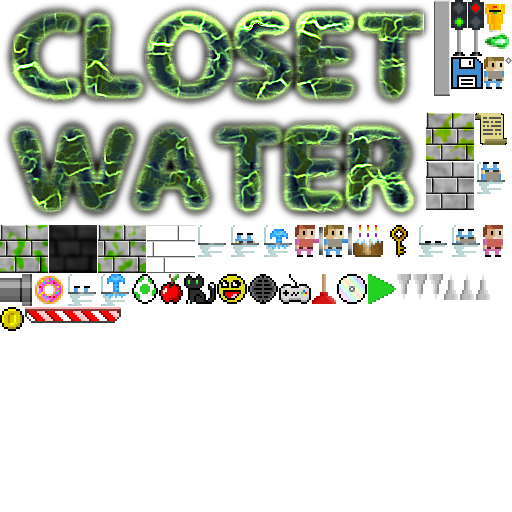
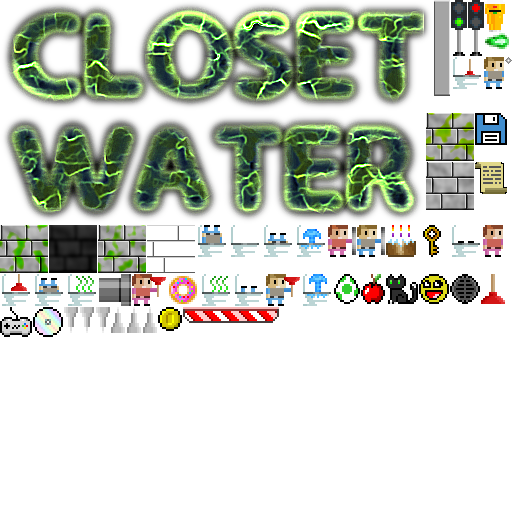
Implemented plunger.

diff --git a/src/entities/toilet.c b/src/entities/toilet.c
@@ -30,6 +30,8 @@ static void save(cJSON *root);
 static AtlasImage *idleTexture;
 static AtlasImage *eruptFrames[2];
 static AtlasImage *escapeFrames[5];
+static AtlasImage *stinkFrames[2];
+static AtlasImage *plungingFrames[2];
 
 void initToilet(Entity *e)
 {
@@ -47,12 +49,14 @@ void initToilet(Entity *e)
 		escapeFrames[i] = getAtlasImage(filename, 1);
 	}
 	
-	for (i = 0 ; i < 2 ; i++)
-	{
-		sprintf(filename, "gfx/entities/toiletErupt%d.png", i + 1);
-		
-		eruptFrames[i] = getAtlasImage(filename, 1);
-	}
+	eruptFrames[0] = getAtlasImage("gfx/entities/toiletErupt1.png", 1);
+	eruptFrames[1] = getAtlasImage("gfx/entities/toiletErupt2.png", 1);
+	
+	stinkFrames[0] = getAtlasImage("gfx/entities/toiletStink1.png", 1);
+	stinkFrames[1] = getAtlasImage("gfx/entities/toiletStink2.png", 1);
+	
+	plungingFrames[0] = getAtlasImage("gfx/entities/toiletPlunging1.png", 1);
+	plungingFrames[1] = getAtlasImage("gfx/entities/toiletPlunging2.png", 1);
 	
 	idleTexture = getAtlasImage("gfx/entities/toilet.png", 1);
 	
@@ -71,21 +75,6 @@ void initToilet(Entity *e)
 
 static void idle(void)
 {
-	int x;
-	Toilet *t;
-	
-	t = (Toilet*)self->data;
-	
-	if (t->requiresPlunger && --t->stinkTime <= 0)
-	{
-		x = self->x;
-		x += rand() % self->w;
-		
-		addToiletParticle(x, self->y + self->h / 2);
-		
-		t->stinkTime = 8 + rand() % 8;
-	}
-	
 	if (stage.time / 60 == 0)
 	{
 		self->atlasImage = eruptFrames[0];
@@ -93,6 +82,55 @@ static void idle(void)
 		self->tick = erupt;
 		
 		self->touch = NULL;
+	}
+}
+
+static void stink(void)
+{
+	Toilet *t;
+	
+	t = (Toilet*)self->data;
+	
+	t->animTimer++;
+	
+	if (t->animTimer % 30 == 0)
+	{
+		if (++t->frameNum > 1)
+		{
+			t->frameNum = 0;
+		}
+	}
+	
+	self->atlasImage = stinkFrames[t->frameNum];
+}
+
+static void plunging(void)
+{
+	Toilet *t;
+	
+	t = (Toilet*)self->data;
+	
+	t->animTimer++;
+	
+	if (t->animTimer % 16 == 0)
+	{
+		if (++t->frameNum > 1)
+		{
+			t->frameNum = 0;
+		}
+		
+		playSound(SND_PLUNGE, -1);
+	}
+	
+	self->atlasImage = plungingFrames[t->frameNum];
+	
+	if (--t->requiresPlunger <= 0)
+	{
+		self->tick = idle;
+		
+		self->atlasImage = idleTexture;
+		
+		self->touch = touch;
 	}
 }
 
@@ -106,7 +144,7 @@ static void erupt(void)
 	
 	if (t->animTimer % 30 == 0)
 	{
-		if (++t->frameNum >= 2)
+		if (++t->frameNum > 1)
 		{
 			t->frameNum = 0;
 		}
@@ -142,36 +180,69 @@ static void touch(Entity *other)
 {
 	Toilet *t;
 	
-	if (other != NULL && other->type == ET_PLAYER && self->tick == idle)
+	if (other != NULL)
 	{
 		t = (Toilet*)self->data;
 		
-		self->tick = escape;
-		
-		self->atlasImage = escapeFrames[0];
-		
-		t->animTimer = FPS;
-		
-		other->health = 0;
-		
-		/* just remove player */
-		other->die = NULL;
-		
-		stage.status = SS_COMPLETE;
-		
-		stage.nextStageTimer = FPS * 3;
-		
-		playSound(SND_FLUSH, CH_PLAYER);
+		if (!t->requiresPlunger && other->type == ET_PLAYER)
+		{
+			self->tick = escape;
+			
+			self->atlasImage = escapeFrames[0];
+			
+			t->animTimer = FPS;
+			
+			other->health = 0;
+			
+			/* just remove player */
+			other->die = NULL;
+			
+			stage.status = SS_COMPLETE;
+			
+			stage.nextStageTimer = FPS * 3;
+			
+			playSound(SND_FLUSH, CH_PLAYER);
+		}
+		else if (other->flags & EF_PLUNGING)
+		{
+			other->flags &= ~EF_PLUNGING;
+			
+			self->tick = plunging;
+			
+			self->touch = NULL;
+		}
 	}
 }
 
 static void load(cJSON *root)
 {
+	Toilet *t;
+	
+	t = (Toilet*)self->data;
+	
 	self->facing = strcmp(cJSON_GetObjectItem(root, "facing")->valuestring, "left") == 0 ? 0 : 1;
+	
+	if (cJSON_GetObjectItem(root, "requiresPlunger"))
+	{
+		t->requiresPlunger = FPS * 2;
+		
+		self->atlasImage = stinkFrames[0];
+		
+		self->tick = stink;
+	}
 }
 
 static void save(cJSON *root)
 {
+	Toilet *t;
+	
+	t = (Toilet*)self->data;
+	
 	cJSON_AddStringToObject(root, "type", self->typeName);
 	cJSON_AddStringToObject(root, "facing", self->facing == 0 ? "left" : "right");
+	
+	if (t->requiresPlunger)
+	{
+		cJSON_AddNumberToObject(root, "requiresPlunger", 1);
+	}
 }

diff --git a/src/entities/player.c b/src/entities/player.c
@@ -20,7 +20,9 @@ Foundation, Inc., 59 Temple Place - Suite 330, Boston, MA  02111-1307, USA.
 
 #include "player.h"
 
+static AtlasImage *normalTexture;
 static AtlasImage *shieldTexture;
+static AtlasImage *plungerTexture;
 
 static void recordCloneData(void);
 static void tick(void);
@@ -50,7 +52,11 @@ void initPlayer(Entity *e)
 	e->w = e->atlasImage->rect.w;
 	e->h = e->atlasImage->rect.h;
 	
+	normalTexture = e->atlasImage;
+	
 	shieldTexture = getAtlasImage("gfx/entities/guyShield.png", 1);
+	
+	plungerTexture = getAtlasImage("gfx/entities/guyPlunger.png", 1);
 }
 
 static void tick(void)
@@ -62,9 +68,15 @@ static void tick(void)
 	self->dx = 0;
 	p->action = 0;
 	
+	self->atlasImage = normalTexture;
+	
 	if (self->flags & EF_SHIELDED)
 	{
 		self->atlasImage = shieldTexture;
+	}
+	else if (self->flags & EF_PLUNGING)
+	{
+		self->atlasImage = plungerTexture;
 	}
 	
 	if (self->health > 0)

diff --git a/src/entities/clone.c b/src/entities/clone.c
@@ -20,7 +20,9 @@ Foundation, Inc., 59 Temple Place - Suite 330, Boston, MA  02111-1307, USA.
 
 #include "clone.h"
 
+static AtlasImage *normalTexture;
 static AtlasImage *shieldTexture;
+static AtlasImage *plungerTexture;
 
 int isValidCloneFrame(Clone *c);
 static void tick(void);
@@ -47,7 +49,11 @@ void initClone(void)
 	e->tick = tick;
 	e->die = die;
 	
+	normalTexture = e->atlasImage;
+	
 	shieldTexture = getAtlasImage("gfx/entities/cloneShield.png", 1);
+	
+	plungerTexture = getAtlasImage("gfx/entities/clonePlunger.png", 1);
 }
 
 static void tick(void)
@@ -58,9 +64,15 @@ static void tick(void)
 	
 	self->dx = 0;
 	
+	self->atlasImage = normalTexture;
+	
 	if (self->flags & EF_SHIELDED)
 	{
 		self->atlasImage = shieldTexture;
+	}
+	else if (self->flags & EF_PLUNGING)
+	{
+		self->atlasImage = plungerTexture;
 	}
 	
 	if (c->advanceData)

diff --git a/src/defs.h b/src/defs.h
@@ -61,6 +61,7 @@ Foundation, Inc., 59 Temple Place - Suite 330, Boston, MA  02111-1307, USA.
 #define EF_NO_WORLD_CLIP   (2 << 3)
 #define EF_SHIELDED        (2 << 4)
 #define EF_NO_MAP_BOUNDS   (2 << 5)
+#define EF_PLUNGING        (2 << 6)
 
 enum
 {
@@ -71,7 +72,7 @@ enum
 	ET_STRUCTURE,
 	ET_BULLET,
 	ET_TRAP,
-	ET_SWITCH
+	ET_SWITCH,
 };
 
 enum
@@ -124,6 +125,7 @@ enum
 	SND_ITEM,
 	SND_FAIL,
 	SND_TIP,
+	SND_PLUNGE,
 	SND_MAX
 };
 

diff --git a/src/system/sound.c b/src/system/sound.c
@@ -86,6 +86,7 @@ static void loadSounds(void)
 	sounds[SND_FAIL] = Mix_LoadWAV("sound/fail.ogg");
 	sounds[SND_ITEM] = Mix_LoadWAV("sound/item.ogg");
 	sounds[SND_TIP] = Mix_LoadWAV("sound/tip.ogg");
+	sounds[SND_PLUNGE] = Mix_LoadWAV("sound/plunge.ogg");
 }
 
 void loadRandomStageMusic(void)

diff --git a/src/entities/plunger.c b/src/entities/plunger.c
@@ -63,6 +63,8 @@ static void touch(Entity *other)
 	{
 		self->health = 0;
 		
+		other->flags |= EF_PLUNGING;
+		
 		playSound(SND_PLUNGER, CH_ITEM);
 	}
 }

diff --git a/src/structs.h b/src/structs.h
@@ -88,7 +88,6 @@ typedef struct {
 } Player;
 
 typedef struct {
-	int stinkTime;
 	int animTimer;
 	int requiresPlunger;
 	int frameNum;
